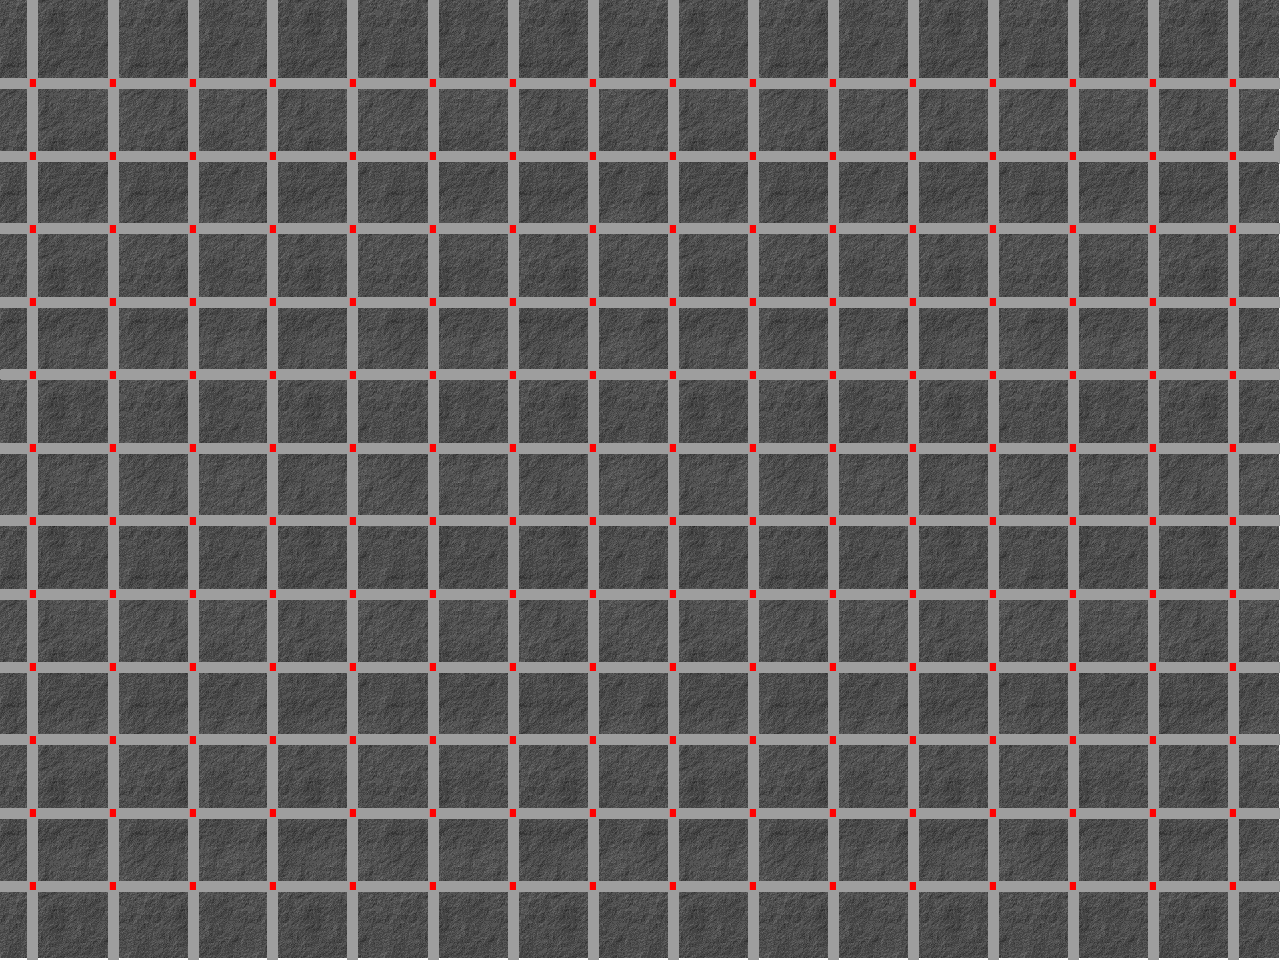
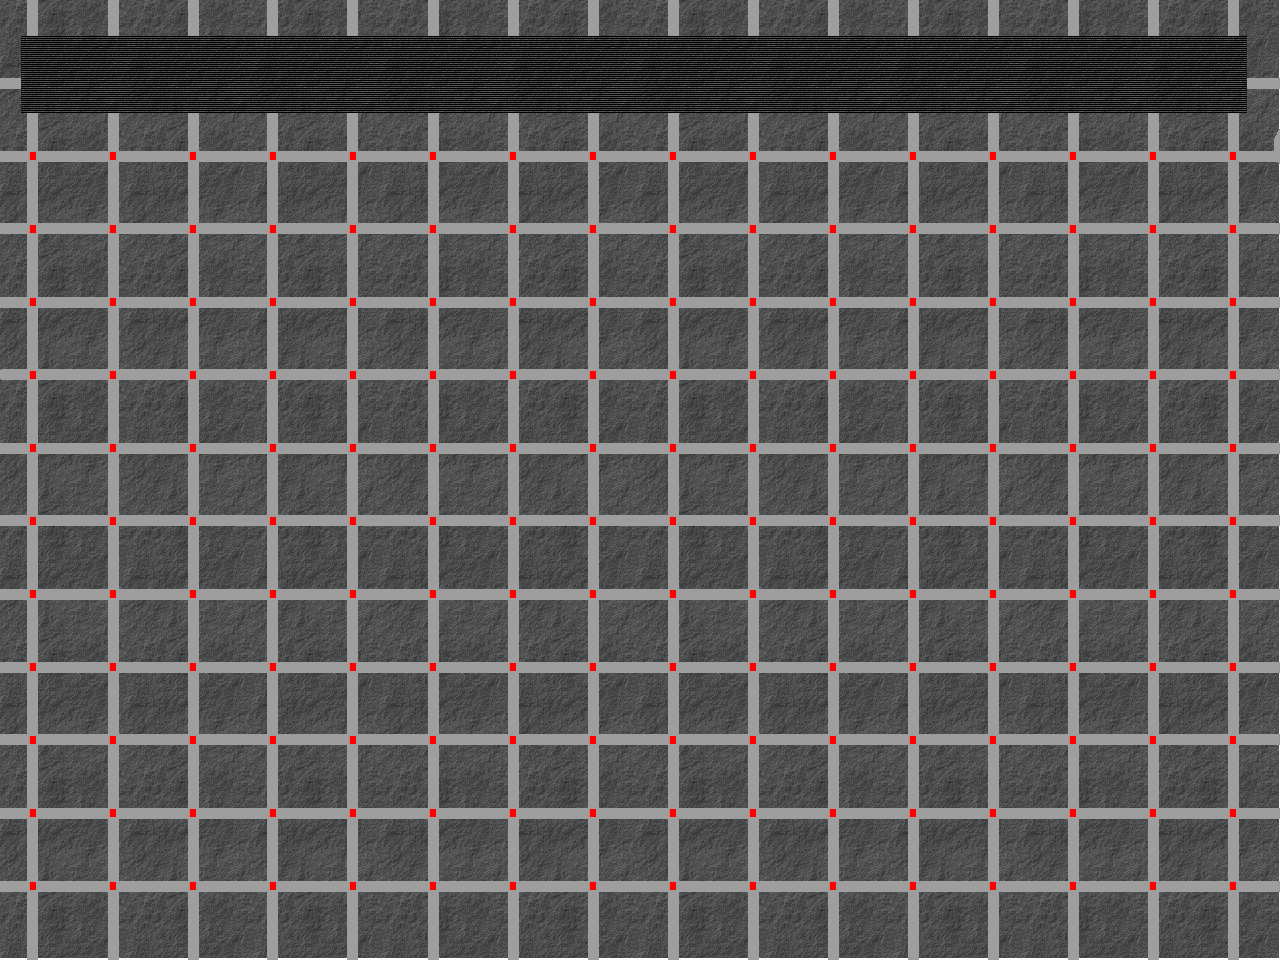
Adiciona sugestão de atividade.

Changed region(s): [[0.0, 0.0312, 1.0, 0.125]]

diff --git a/geoplano.py b/geoplano.py
@@ -8,10 +8,12 @@ RIGHT_MOUSE_BUTTON = 3
 INITIAL_POSITION = (-47, 34)
 PEN_POSITIONS = []
 CURSOR_SIZE = 20
-FONT_SIZE = 16
-FONT = ('Arial', FONT_SIZE, 'bold')
+FONT_SIZE = 22
+FONT = ('Arial', FONT_SIZE, 'bold italic')
 HORIZONTAL_UNIT = 80.0
 VERTICAL_UNIT = 73.0
+NOTE_POSITION = (-600, 400)
+NOTE_CONTENT = "Sugestão de atividade: Desenhe um retângulo que tenha 12 quadrados de área."
 
 def defScreen():
     screen = turtle.Screen()
@@ -41,6 +43,14 @@ def setPenPosition(x, y):
 def clearAllDrawings(x, y):
     pen.clear()
 
+def createSuggestionNote():
+    note = turtle.Turtle()
+    note.ht()
+    note.penup()
+    note.color("white")
+    note.setpos(NOTE_POSITION)
+    note.write(NOTE_CONTENT, align="left", font=FONT)
+
 def goRight():
     x = pen.xcor() + HORIZONTAL_UNIT
     setPenPosition(x, pen.ycor())
@@ -59,6 +69,7 @@ def goDown():
 
 screen = defScreen()
 pen = defPen()
+createSuggestionNote()
 
 while True:
     screen.update()

diff --git a/README.md b/README.md
@@ -1,10 +1,15 @@
-# geoplano
-Geoplano virtual
+# Geoplano
+Geoplano virtual com _Turtle Graphics_
+
+## Como rodar:
+Use o Python 3 para rodar o `geoplano.py`
+
+Dependências do programa: `tkinter`
 
 ## A fazer:
 
 * [x] Iniciar com a caneta em um ponto do Geoplano.
-* [ ] Adicionar `sugestão de atividade`.
+* [x] Adicionar `sugestão de atividade`.
 * [x] Adicionar movimentação pelo teclado.
 * [ ] Criar botões para voltar e avançar movimentos.
 * [ ] Permitir movimentar a caneta sem desenhar. (barra de espaço?)
